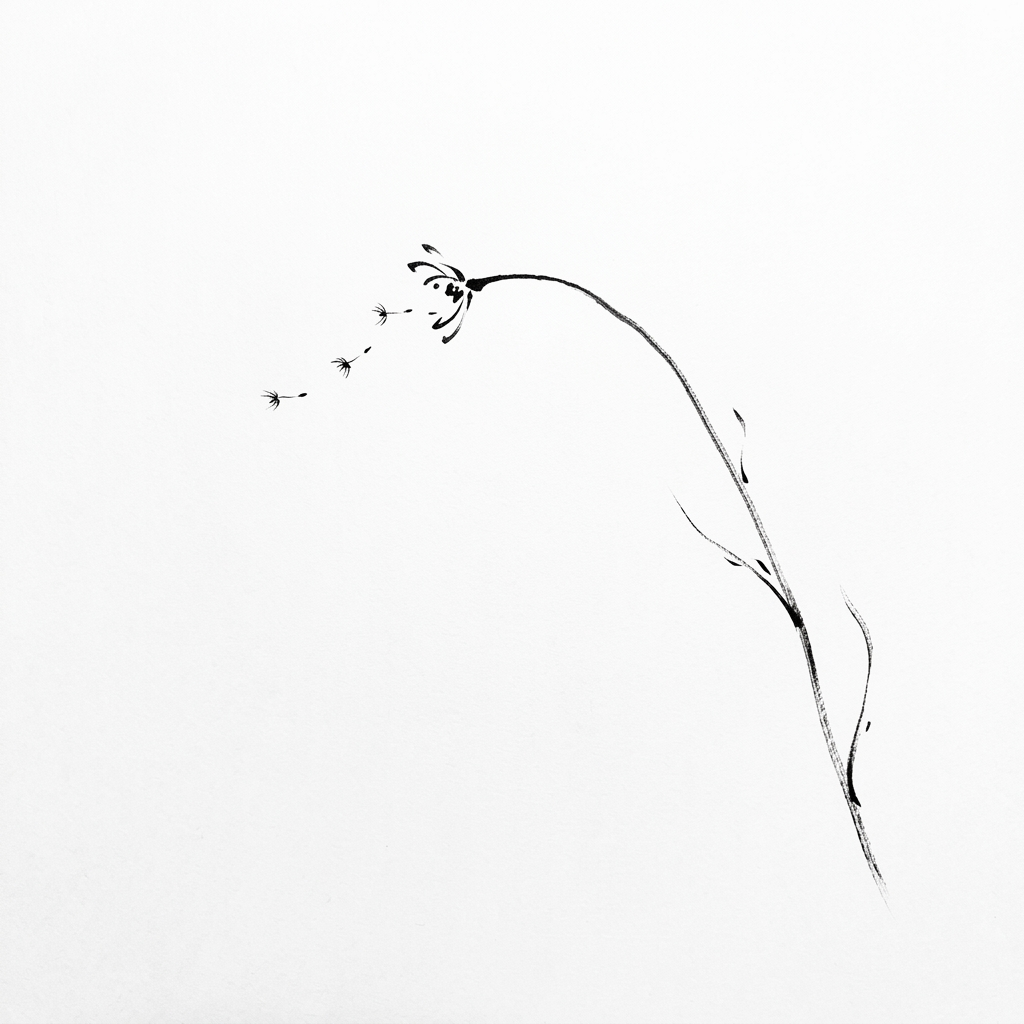
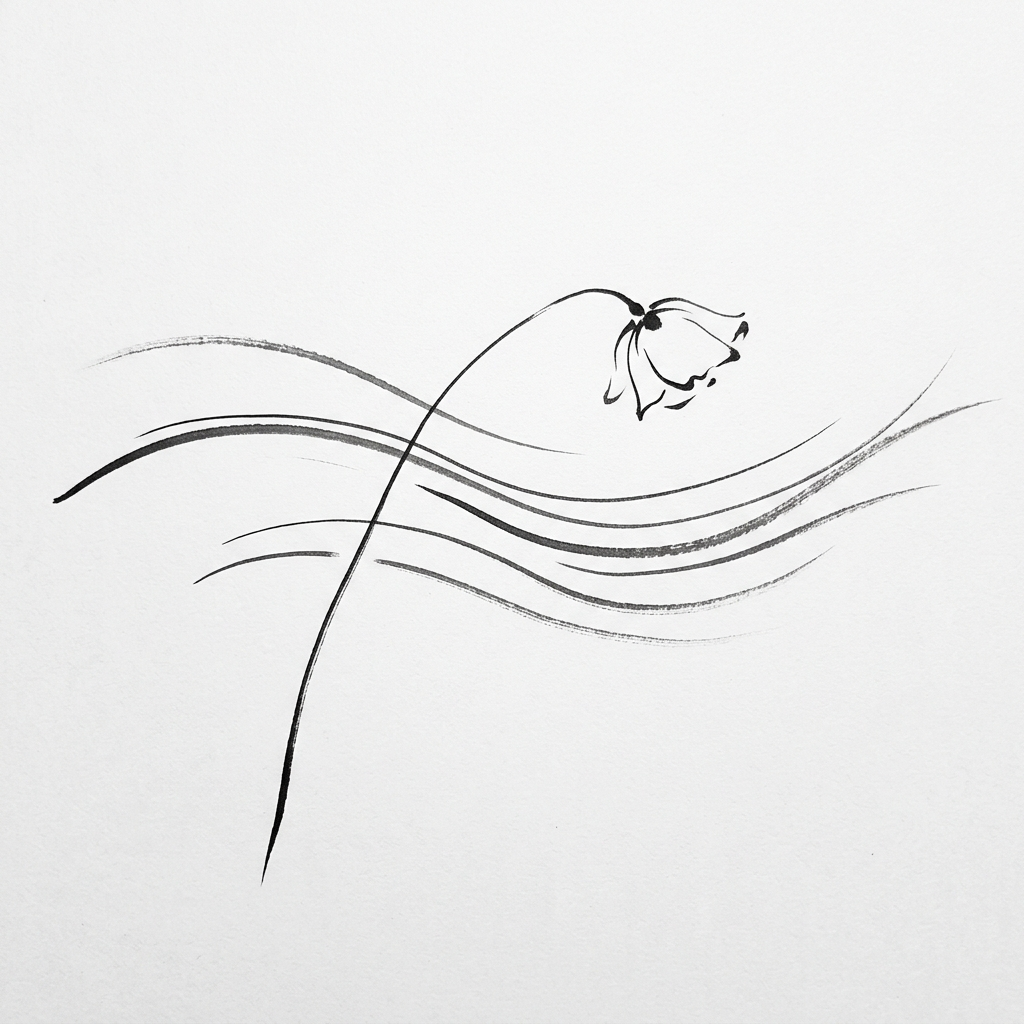
feat(wind): incorporate sweeping calligraphic wind current lines into Day 4 source and animation

diff --git a/src/days/004-wind/Wind.tsx b/src/days/004-wind/Wind.tsx
@@ -5,8 +5,7 @@ import drawing from '../../../public/004/drawing.json';
 import {
   stemGrowProgress,
   stemSkewX,
-  seedProgress,
-  seedOpacity,
+  windProgress,
 } from './beats';
 
 // Preload handle to ensure images are fully loaded before rendering frames
@@ -19,9 +18,7 @@ export function useInkPreload() {
   useEffect(() => {
     const urls = [
       staticFile('004/stem.png'),
-      staticFile('004/seed1.png'),
-      staticFile('004/seed2.png'),
-      staticFile('004/seed3.png'),
+      staticFile('004/wind.png'),
     ];
     let loaded = 0;
     const handleLoad = () => {
@@ -34,36 +31,22 @@ export function useInkPreload() {
       const img = new Image();
       img.src = url;
       img.onload = handleLoad;
-      img.onerror = handleLoad; // don't block forever on network failure
+      img.onerror = handleLoad;
     });
   }, []);
 }
 
 export const Wind = () => {
   const frame = useCurrentFrame();
-  const { stem, seeds } = drawing;
+  const { stem, wind } = drawing;
 
   const stemProgress = stemGrowProgress(frame);
+  const wProgress = windProgress(frame);
   const skewX = stemSkewX(frame);
 
-  // The base of the stem is around x=820, y=1345 in the unscaled canvas
-  const stemBaseX = 820;
-  const stemBaseY = 1345;
-
-  // The origin point from which seeds detach (the bending flower head)
-  // Since the stem bends, the flower head origin also shifts to the left!
-  // We can calculate the shifted origin by rotating the static origin point (500, 700)
-  // around the stem base (stemBaseX, stemBaseY) by the current skew/rotation angle.
-  const staticOriginX = 500;
-  const staticOriginY = 700;
-
-  const angleRad = (skewX * Math.PI) / 180;
-  const cos = Math.cos(angleRad);
-  const sin = Math.sin(angleRad);
-
-  // Rotate static origin around stem base
-  const originX = stemBaseX + (staticOriginX - stemBaseX) * cos - (staticOriginY - stemBaseY) * sin;
-  const originY = stemBaseY + (staticOriginX - stemBaseX) * sin + (staticOriginY - stemBaseY) * cos;
+  // The base of the stem is around x=280, y=1350 in the unscaled canvas
+  const stemBaseX = 280;
+  const stemBaseY = 1350;
 
   return (
     <svg
@@ -90,9 +73,32 @@ export const Wind = () => {
             fill="white"
           />
         </mask>
+
+        {/* Left-to-right wipe mask for the sweeping wind swooshes */}
+        <mask id="wind-sweep-004" maskUnits="userSpaceOnUse">
+          <rect width={1080} height={1920} fill="black" />
+          <rect
+            x={wind.left - 20}
+            y={wind.top - 20}
+            width={(wind.width + 40) * wProgress}
+            height={wind.height + 40}
+            fill="white"
+          />
+        </mask>
       </defs>
 
-      {/* Main plant stem and leaves */}
+      {/* Wind swooshes in the background */}
+      <image
+        href={staticFile('004/wind.png')}
+        x={wind.left}
+        y={wind.top}
+        width={wind.width}
+        height={wind.height}
+        mask="url(#wind-sweep-004)"
+        style={{ opacity: 0.85 }} // slightly softer ink opacity for background wind swooshes
+      />
+
+      {/* Main plant stem and flower head, bending to the right */}
       <g transform={`rotate(${skewX}, ${stemBaseX}, ${stemBaseY})`}>
         <image
           href={staticFile('004/stem.png')}
@@ -103,35 +109,6 @@ export const Wind = () => {
           mask="url(#stem-grow-004)"
         />
       </g>
-
-      {/* Floating Seeds */}
-      {seeds.map((seed, i) => {
-        const p = seedProgress(frame, i);
-        const opacity = seedOpacity(frame, i);
-
-        // Interpolate position from the flower head origin to final drawn coordinate
-        const x = originX + (seed.left - originX) * p;
-        const y = originY + (seed.top - originY) * p;
-
-        // Add a slight spin/rotation to the seeds as they fly
-        const seedRotation = (1 - p) * 45;
-
-        return (
-          <image
-            key={i}
-            href={staticFile(`004/seed${i + 1}.png`)}
-            x={x}
-            y={y}
-            width={seed.width}
-            height={seed.height}
-            style={{
-              opacity,
-              transform: `rotate(${seedRotation}deg)`,
-              transformOrigin: `${x + seed.width / 2}px ${y + seed.height / 2}px`,
-            }}
-          />
-        );
-      })}
     </svg>
   );
 };

diff --git a/src/days/004-wind/beats.test.ts b/src/days/004-wind/beats.test.ts
@@ -6,11 +6,7 @@ import {
   stemGrowProgress,
   windProgress,
   stemSkewX,
-  seedProgress,
-  seedOpacity,
   labelIn,
-  breathScale,
-  pushInScale,
 } from './beats';
 
 describe('Day 004 timeline beats', () => {
@@ -33,33 +29,16 @@ describe('Day 004 timeline beats', () => {
 
     assert.strictEqual(stemSkewX(0), 0);
     assert.strictEqual(stemSkewX(BEATS.wind.start), 0);
-    assert.strictEqual(stemSkewX(BEATS.wind.end), -7);
+    assert.strictEqual(stemSkewX(BEATS.wind.end), 7);
 
     const midSkew = stemSkewX(150);
-    assert.ok(midSkew < 0 && midSkew > -7);
-  });
-
-  it('seeds progress and opacity match wind release schedule', () => {
-    for (let i = 0; i < 3; i++) {
-      const s = BEATS.seeds[i];
-      assert.strictEqual(seedProgress(0, i), 0);
-      assert.strictEqual(seedProgress(s.start, i), 0);
-      assert.strictEqual(seedProgress(s.end, i), 1);
-      assert.strictEqual(seedProgress(352, i), 1);
-
-      assert.strictEqual(seedOpacity(0, i), 0);
-      assert.strictEqual(seedOpacity(s.start, i), 0);
-      assert.strictEqual(seedOpacity(s.start + 20, i), 1);
-    }
+    assert.ok(midSkew > 0 && midSkew < 7);
   });
 
   it('still frame (352) is fully settled', () => {
     assert.strictEqual(stemGrowProgress(352), 1);
     assert.strictEqual(windProgress(352), 1);
-    assert.strictEqual(stemSkewX(352), -7);
-    assert.strictEqual(seedProgress(352, 0), 1);
-    assert.strictEqual(seedProgress(352, 1), 1);
-    assert.strictEqual(seedProgress(352, 2), 1);
+    assert.strictEqual(stemSkewX(352), 7);
     assert.strictEqual(labelIn(352), 1);
   });
 });

diff --git a/src/days/004-wind/beats.ts b/src/days/004-wind/beats.ts
@@ -1,12 +1,10 @@
 // src/days/004-wind/beats.ts
-import { interpolate, spring } from 'remotion';
+import { interpolate } from 'remotion';
 
-// Simple easing functions
 const easeOutCubic = (t: number) => 1 - Math.pow(1 - t, 3);
 const easeInOutCubic = (t: number) =>
   t < 0.5 ? 4 * t * t * t : 1 - Math.pow(-2 * t + 2, 3) / 2;
 
-// Helper to normalize frame numbers into a 0-1 progress range
 const norm = (f: number, start: number, end: number) => {
   return Math.min(1, Math.max(0, (f - start) / (end - start)));
 };
@@ -16,11 +14,6 @@ export const BEATS = {
   stillFrame: 352,
   stem: { start: 20, end: 120 },
   wind: { start: 100, end: 240 },
-  seeds: [
-    { start: 160, end: 250 }, // Seed 1 (leftmost, furthest)
-    { start: 140, end: 230 }, // Seed 2 (middle)
-    { start: 120, end: 210 }, // Seed 3 (rightmost, closest)
-  ],
   label: { start: 300, end: 345 },
 };
 
@@ -34,22 +27,10 @@ export function windProgress(frame: number): number {
   return easeInOutCubic(norm(frame, BEATS.wind.start, BEATS.wind.end));
 }
 
-// Bending skew angle (in degrees). The stem bends to the left under right-to-left wind.
+// Bending skew angle (in degrees). The stem bends to the right under left-to-right wind.
 export function stemSkewX(frame: number): number {
   const w = windProgress(frame);
-  return interpolate(w, [0, 1], [0, -7]); // bends up to -7 degrees
-}
-
-// Individual seed drift progress (0 = at flower head, 1 = at final drawn position)
-export function seedProgress(frame: number, seedIdx: number): number {
-  const s = BEATS.seeds[seedIdx];
-  return easeOutCubic(norm(frame, s.start, s.end));
-}
-
-// Seed opacity (starts at 0 when hidden, fades in to 1 as it detaches)
-export function seedOpacity(frame: number, seedIdx: number): number {
-  const s = BEATS.seeds[seedIdx];
-  return norm(frame, s.start, s.start + 20);
+  return interpolate(w, [0, 1], [0, 7]); // bends up to 7 degrees rightwards
 }
 
 // Gallery placard text fade-in
@@ -59,7 +40,6 @@ export function labelIn(frame: number): number {
 
 // Subtle zen breathing scale
 export function breathScale(frame: number): number {
-  // Peak breath at frame 180, returning to 1.0 at 360
   const phase = Math.sin((frame / BEATS.duration) * Math.PI);
   return 1 + phase * 0.015;
 }